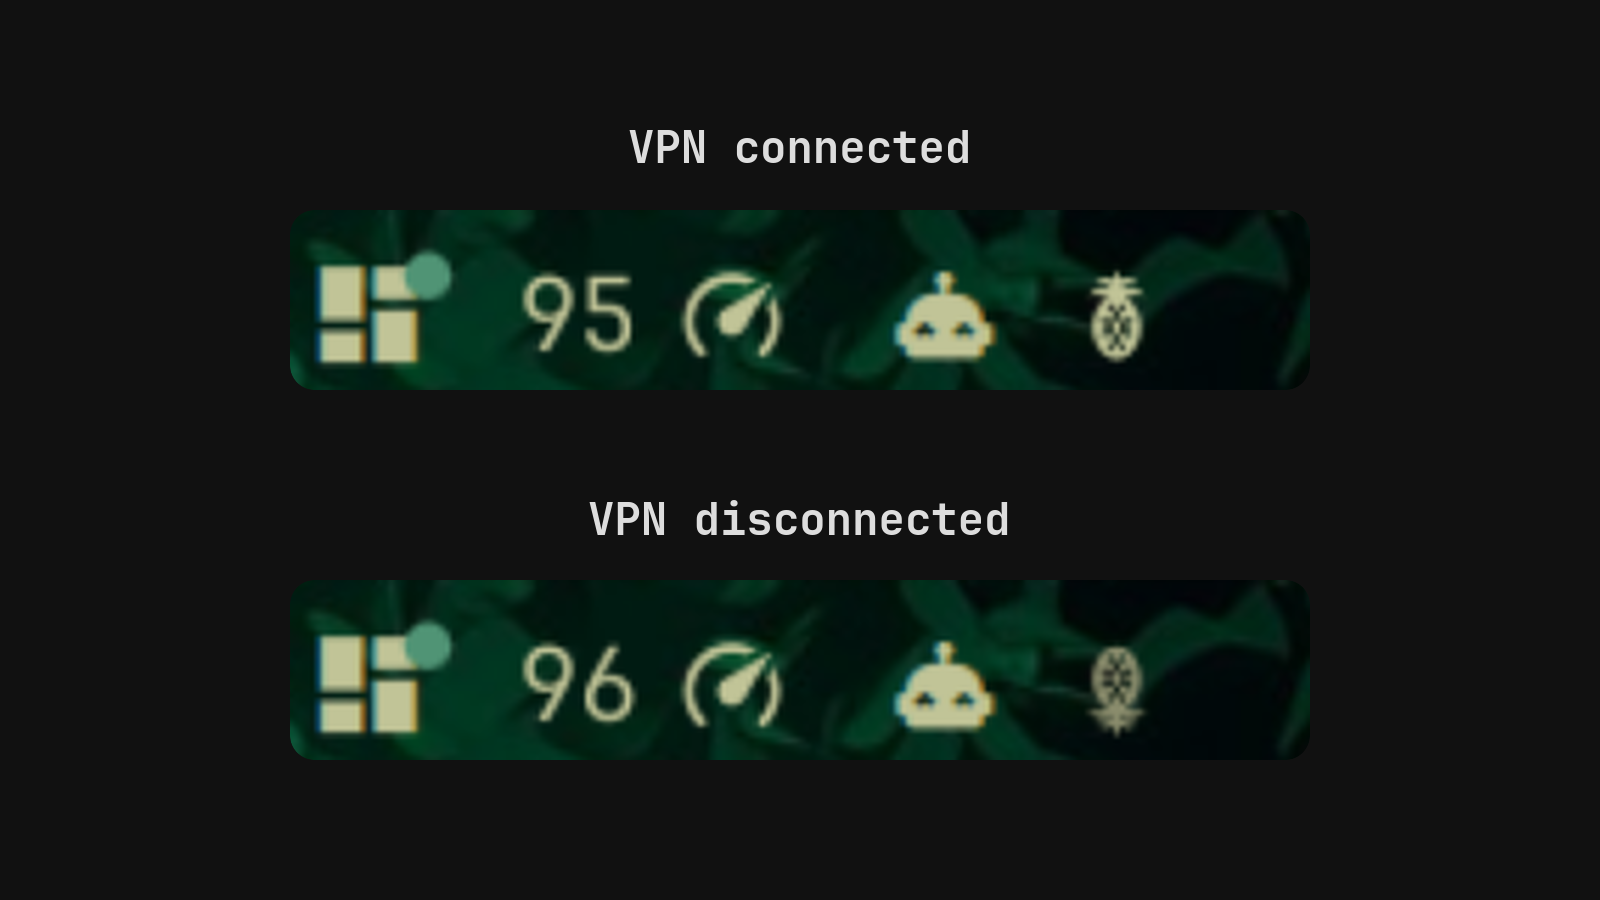
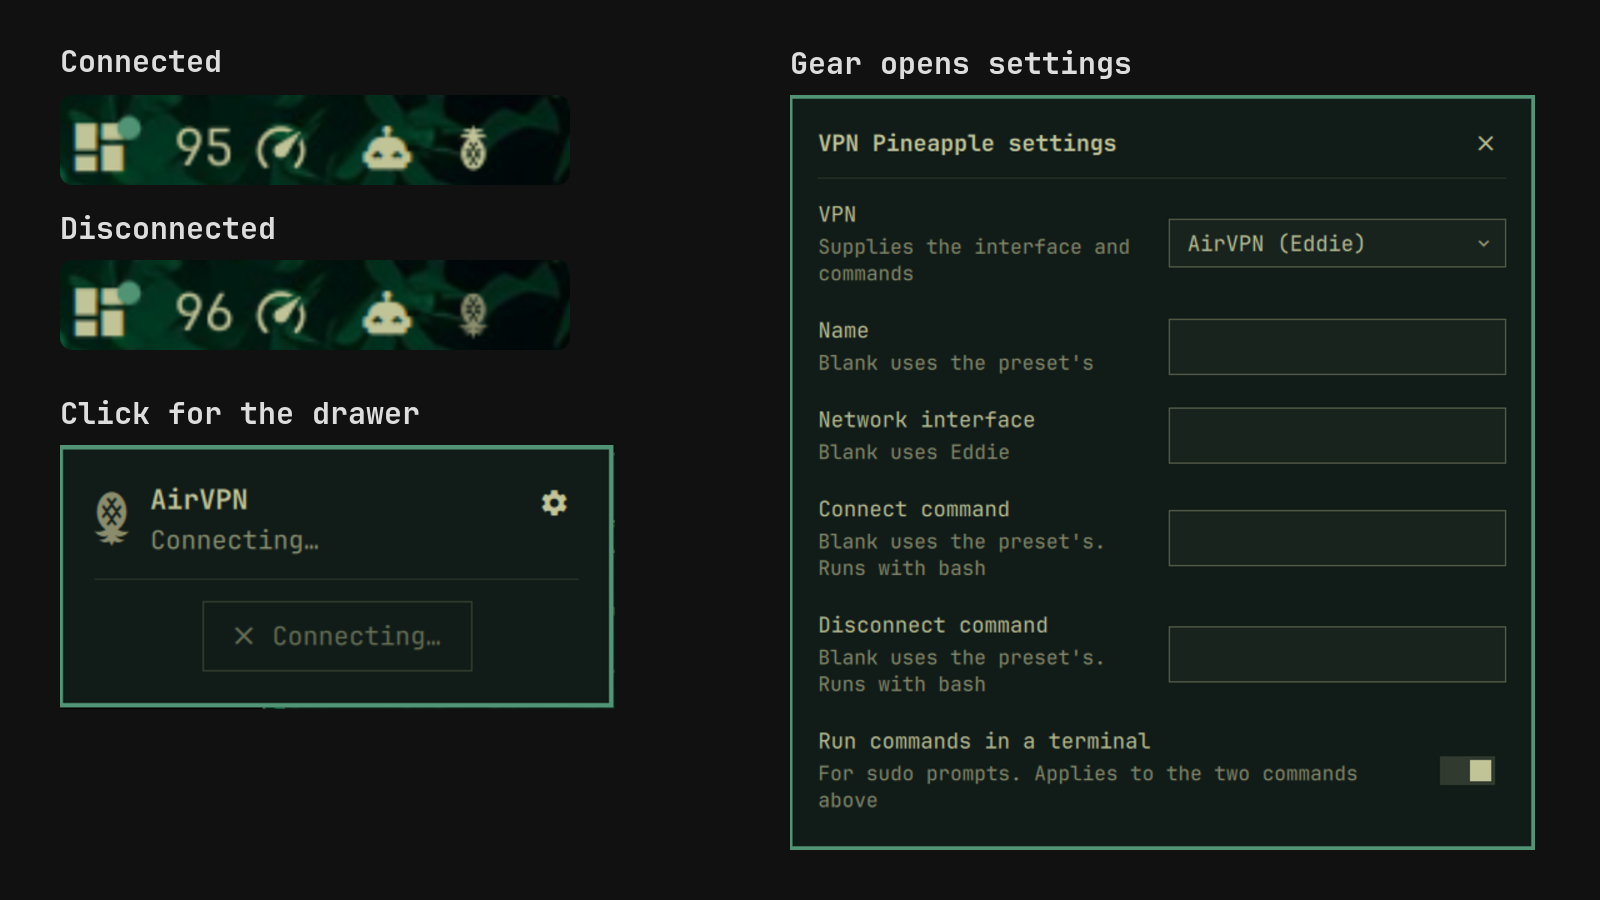
Show the drawer and settings view in the preview
Claude-Session: https://claude.ai/code/session_01E8LSXeNqXfg6VkCJYKEpyj

diff --git a/README.md b/README.md
@@ -1,6 +1,6 @@
 # VPN Pineapple
 
-![The pineapple upright while the VPN is connected, and upside down and muted while it is disconnected](preview.png)
+![The pineapple upright while connected and upside down while disconnected, the drawer with its gear button, and the settings view](preview.png)
 
 A bar widget for [Omarchy](https://omarchy.org) that shows your VPN status as a
 pineapple: upright and in the bar's normal color while the tunnel is up, upside
